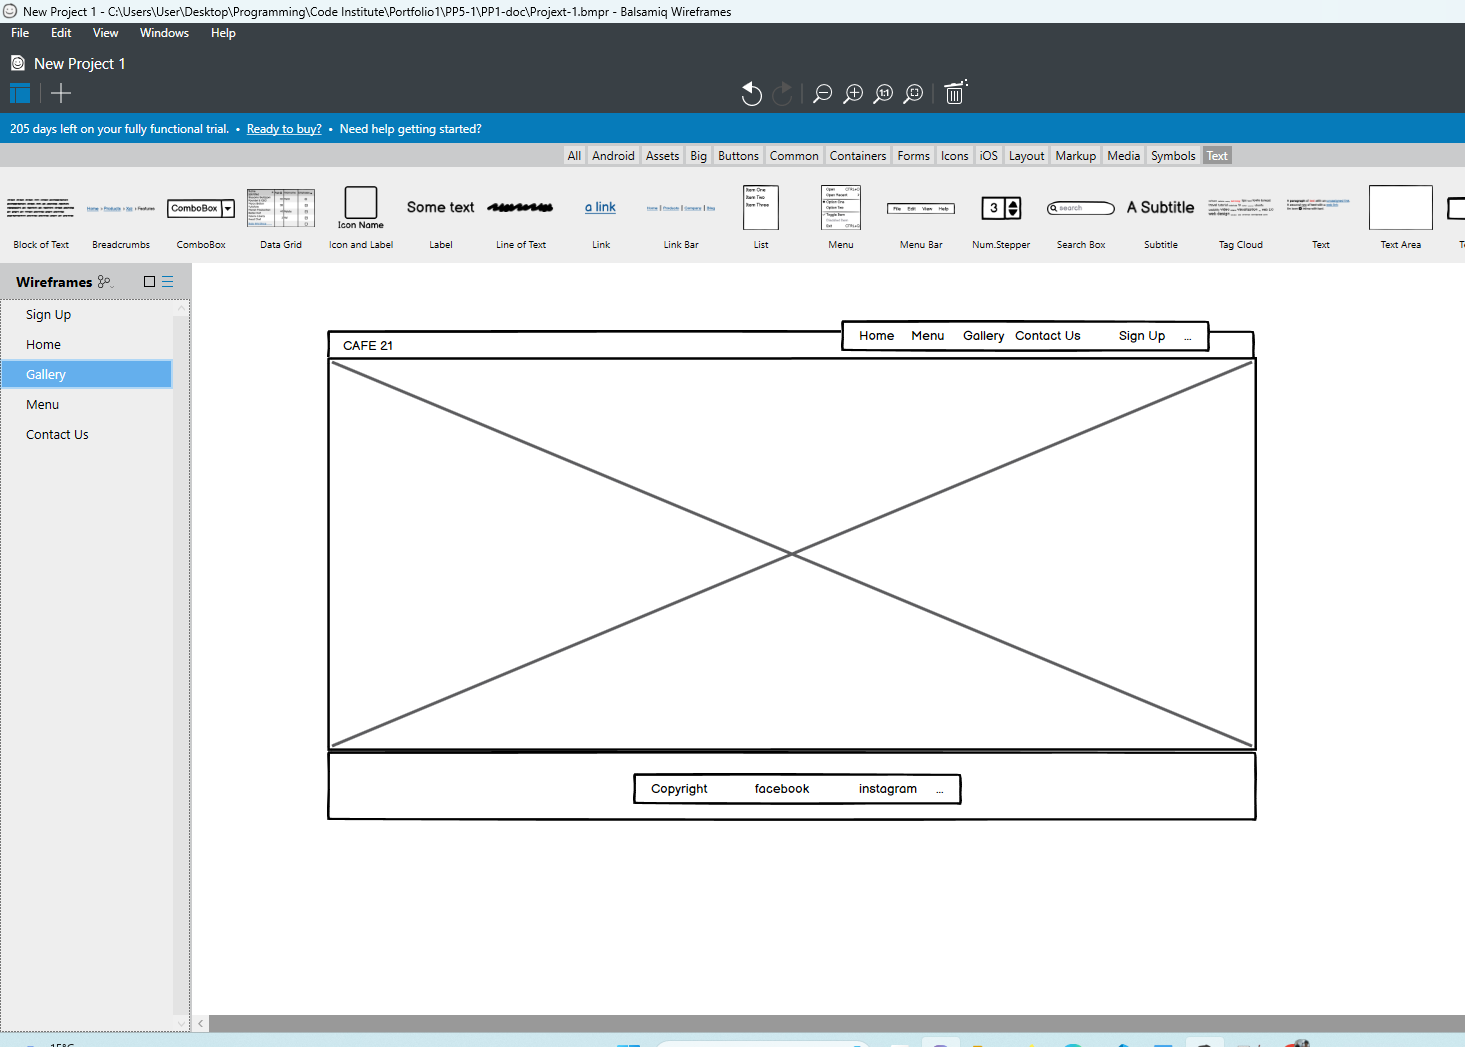
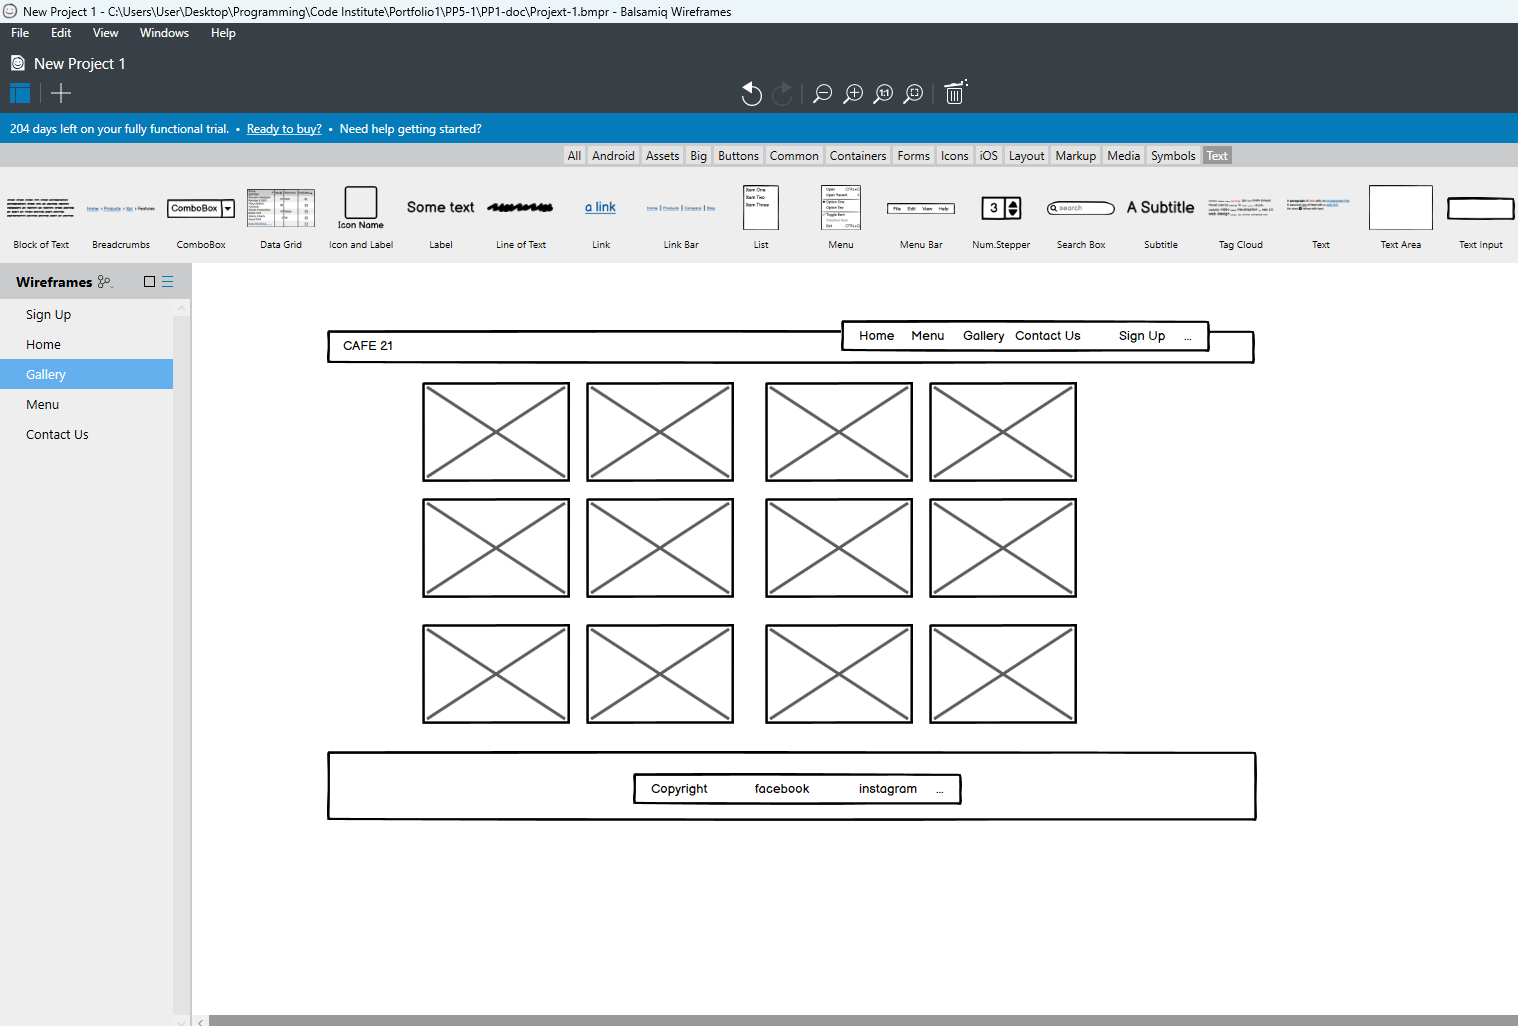
Initial commit for README.md

diff --git a/README.md b/README.md
@@ -1,4 +1,81 @@
-#CAFE21 Website
+# Cafe21 Website
 
 Developer: Grace
+
+Cafe21 is a fictional website designed to be responsive for users to easily browse through the website between desktop, tablet, and smartphone.
+
+![Am I Responsive](assets/readme/amiresponsive.png)
+
+To view the website, click [here]( https://grace-ghb.github.io/Cafe21/).
+
+Cafe21 is a café located in Kinsale a lovely town in Cork, Ireland.  This café provided exotic coffee and lovely meals throughout the day and the owners have organized a book club where they have a meeting once a week between the members.  
+
+## Table of Contents
+---
+1. [User Experience (UX)](#)
+   * [Initial Discussion](#)
+   * [User Stories](#)
+   * [Typography](#)
+   * [Wireframes](#)
+  
+2. [Design](#)
+    * [Typography](#)
+    * [Wireframes](#)
+    * [Features](#)
+3. [Technologies Used](#)
+    * [Languages Used](#)
+    * [Frameworks, Libraries & Programs Used](#)
+4. [Testing](#)
+    * [W3C Validator](#)
+    * [Accessibility](#)
+    * [Home Page](#)
+    * [Menu Page](#)
+    * [Gallery Page](#)
+    * [Contact Us Page](#)
+    * [Sign Up Page](#)
+    * [Tools Testing](#)
+    * [General Testing](#)
+5. [Deployment](#)
+    * [GitHub Pages](#)
+6. [Credits](#)
+    * [Content](#)
+    * [Media](#)
+   * [Acknowledgments](#)
+  
+***
+
+## User Experience (UX)
+
+### Initial Discussion
+Cafe21 is a website for a café provided coffee, tea, and lovely foods services and with a book club where the members meet once a week to discussed about the books they enjoy and exchange ideas of books they read. Members get together to hanging out, to socialise and to enjoy a cup of nice coffee with the right friends. Users can check out the menu from the website where it shows the beverage and foods provided in the café.  From the gallery they can see some pictures of the foods and drinks sold in the café and they can check the location through the website with address, google maps, emails, and telephone numbers.  Users who are interested also can sign up as one of their book club’s members.
+
+### User stories
+* Users can view the site on different devices e.g., desktop, tablet, and smartphone.
+* Users can check what is the price and what kind of foods are offer in the menu in the café.
+* Users can see what the food and drink are offer look like.
+* There is a google map that users can located the location of the café.  They can email or phone in to make enquiries.
+* There is a form provided where users can sign up to join the books club.
+  
+### Typography
+[Google Fonts]( https://fonts.google.com/) was used for the website.
+-	The logo used satisfy font and cursive and sans-serif as the fallback font.
+-	The body used Recursive font and sans-serif as a fallback font.
+
+### Wireframes
+[Balsamiq]( https://balsamiq.com/) has been used to create wireframes for the website.
+
+Home Page Wireframes
+![Home Page Wireframes](assets/readme/wireframes-home.png)
+
+Menu Page Wireframes
+![Menu Page Wireframes](assets/readme/wireframes-menu.png)
+
+Gallery Page Wireframes
+![Gallery Page Wireframes]()
+
+Contact Us Page Wireframes
+![Contact Us Page Wireframes](assets/readme/wireframes-contactus.png)
+
+Sign Up Page Wireframes
+![Sign Up Page Wireframes](assets/readme/wireframes-signup.png)
 
